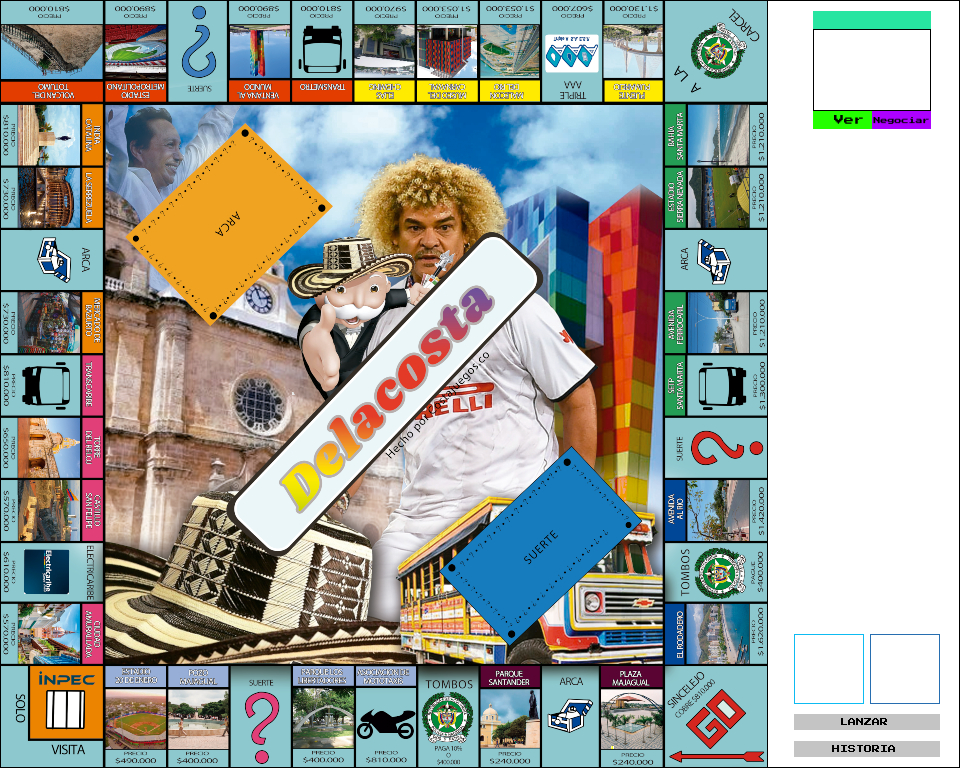
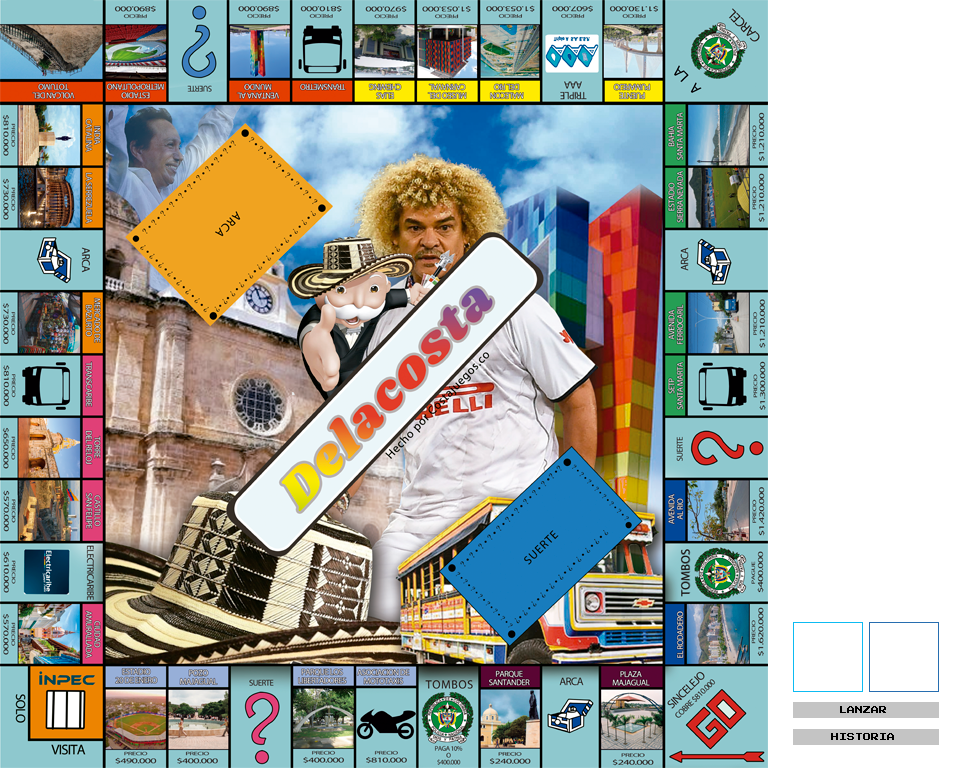
se mueve mas o menos con los dados, corregir limites

diff --git a/src/game/GameSketch.java b/src/game/GameSketch.java
@@ -7,14 +7,20 @@ import processing.core.PImage;
 import game.player.Player;
 import java.io.IOException;
 import game.player.PlayerList;
+import game.dices.dices;
 import game.Main;;
 
 public class GameSketch extends PApplet {
+	float timeexecute;
+	float timedices;
+	float capturetime;
 	PImage bg;
+	PImage[] dados = new PImage[6];
 	PImage piece1;
 	PImage piece2;
 	PImage piece3;
 	PImage piece4;
+
 	int distance = 61;
 	boolean visible = true;
 	// Todo esto es para leer datos atravez del teclado
@@ -41,36 +47,47 @@ public class GameSketch extends PApplet {
 
 	@Override
 	public void setup() {
-		
+		surface.setResizable(true);
 		surface.setSize(960, 768);
-		//console.activate();
+		// console.activate();
 		bg = loadImage("src/images/bg.png");
 		bg.resize(960, 768);
+
 		piece1 = loadImage(lista.head.piece.path);
 		piece2 = loadImage(lista.head.next.piece.path);
 		piece3 = loadImage(lista.head.next.next.piece.path);
 		piece4 = loadImage(lista.tail.piece.path);
-		
+		dices.upLoad();
+		for (int i = 0; i < dices.dices.length; i++) {
+			dados[i] = loadImage(dices.dices[i]);
+		}
+
 	}
 
 	@Override
 	public void draw() {
+		timeexecute = millis() / 1000;
+
+		// Displey de board
 		image(bg, 0, 0);
+		// Display the pieces
 		image(piece1, lista.head.piece.posx, lista.head.piece.posy);
 		image(piece2, lista.head.next.piece.posx, lista.head.next.piece.posy);
 		image(piece3, lista.head.next.next.piece.posx, lista.head.next.next.piece.posy);
 		image(piece4, lista.tail.piece.posx, lista.tail.piece.posy);
-		if(visible){
-			try {
+		// Display the dice
+		image(dados[lista.head.result.results[0] - 1], 793, 622);
+		image(dados[lista.head.result.results[1] - 1], 869, 622);
 
-				lista.head.moveAround();
-	
-			} catch (IOException e) {
-				// TODO Auto-generated catch block
-				e.printStackTrace();
-			}
-			visible = false;
-		}
+		// try {
+
+		// lista.head.moveAround();
+
+		// } catch (IOException e) {
+		// // TODO Auto-generated catch block
+		// e.printStackTrace();
+		// }
+		// visible = false;
 
 	}
 
@@ -87,6 +104,25 @@ public class GameSketch extends PApplet {
 			System.out.println(x);
 			console.reset();
 		}
+	}
+
+	@Override
+	public void mouseClicked() {
+
+		if (mouseX > 793 && mouseX < 939 && mouseY > 702 && mouseY < 718) {
+			// capturetime = true;
+
+			// if (timedices < 5) {
+			try {
+				lista.head.moveAround();
+			} catch (IOException e) {
+				// TODO Auto-generated catch block
+				e.printStackTrace();
+			}
+
+			// }
+		}
+
 	}
 
 	public void run() {

diff --git a/src/game/dices/dices.java b/src/game/dices/dices.java
@@ -1,25 +1,36 @@
 package game.dices;
 
 public class dices {
+    public static String[] dices = new String[6];
+    public static String[] pahtDices = new String[2];
+
+    public static void upLoad() {
+        for (int i = 0; i < 6; i++){
+            dices[i] = "src/images/dice" + (i + 1) + ".png";
+        }
+           
+    }
+
     public static int max_value = 6;
 
     public static dicesResult rollDices() {
-        int first =(int) Math.ceil(Math.random() * max_value);
-        int last =(int) Math.ceil(Math.random() * max_value);
-
-        int[] results = {first, last};
-        dicesResult result = new dicesResult(results, isPair(first, last));
+        int first = (int) Math.ceil(Math.random() * max_value);
+        pahtDices[0] = dices[first - 1];
+        int last = (int) Math.ceil(Math.random() * max_value);
+        pahtDices[1] = dices[last - 1];
+        int[] results = { first, last };
+        dicesResult result = new dicesResult(results, isPair(first, last), pahtDices);
         return result;
     }
 
-    public static boolean isPair(int first, int last){
+    public static boolean isPair(int first, int last) {
         return first == last ? true : false;
     }
 
     public static void main(String[] args) {
         for (int index = 0; index < 10; index++) {
-           dicesResult result = rollDices();
-           result.display();
+            dicesResult result = rollDices();
+            result.display();
         }
     }
 }

diff --git a/src/game/Main.java b/src/game/Main.java
@@ -34,22 +34,22 @@ public class Main {
 		// // Create Bank
 		Bank bank = new Bank(luck, ark, players);
 		GameSketch Sketch = new GameSketch(bank);
-		System.out.println("Escribe los nombres de los jugadores");
+		//System.out.println("Escribe los nombres de los jugadores");
 		// // Add the players to the players list and we sort the orden to play
-		String name1 = Leer.nextLine();
-		Player player1 = new Player(name1, board, bank,699,689,"piece1.png");
+		//String name1 = Leer.nextLine();
+		Player player1 = new Player("Elkin", board, bank,699,689,"piece1.png");
 		players.addPlayer(player1);
 
-		String name2 = Leer.nextLine();
-		Player player2 = new Player(name2, board, bank,722, 689,"piece2.png");
+		//String name2 = Leer.nextLine();
+		Player player2 = new Player("Luis", board, bank,722, 689,"piece2.png");
 		players.addPlayer(player2);
 
-		String name3 = Leer.nextLine();
-		Player player3 = new Player(name3, board, bank, 699, 714,"piece3.png");
+		//String name3 = Leer.nextLine();
+		Player player3 = new Player("Johan", board, bank, 699, 714,"piece3.png");
 		players.addPlayer(player3);
 		
-		String name4 = Leer.nextLine();
-		Player player4 = new Player(name4, board, bank,726, 714,"piece4.png");
+		//String name4 = Leer.nextLine();
+		Player player4 = new Player("Fabian", board, bank,726, 714,"piece4.png");
 		players.addPlayer(player4);
 
 		// // show the orden to play

diff --git a/src/game/dices/dicesResult.java b/src/game/dices/dicesResult.java
@@ -4,15 +4,20 @@ public class dicesResult {
     public int[] results;
     public boolean isPair = false;
     public int result = 0;
+    public String[] dices = new String[6];
+    public String[] pathDices = new String[2];
 
-    public dicesResult(int[] results, boolean isPair) {
+    public dicesResult(int[] results, boolean isPair, String[] pathDices) {
         this.results = results;
         this.isPair = isPair;
         this.result = results[0] + results[1];
+        this.pathDices[0] = pathDices[0];
+        this.pathDices[0] = pathDices[1];
+
     }
 
     public void display() {
-        System.out.println(results[0] + " " + results[1] + " " + isPair + " "+result);
+        System.out.println(results[0] + " " + results[1] + " " + isPair + " " + result);
     }
 
 }

diff --git a/src/game/player/Player.java b/src/game/player/Player.java
@@ -203,7 +203,7 @@ public class Player {
 					boleano = false;
 				}
 			}
-			if (this.piece.posy > this.destino) {
+			while(this.piece.posy > this.destino) {
 				this.piece.posy = this.piece.posy - 1;
 			}
 			System.out.println("Estoy moviendo Up");
@@ -223,7 +223,7 @@ public class Player {
 					boleano = false;
 				}
 			}
-			if (this.piece.posx < this.destino) {
+			while (this.piece.posx < this.destino) {
 				this.piece.posx = this.piece.posx + 1;
 			}
 			System.out.println("Estoy moviendo Right");
@@ -242,7 +242,7 @@ public class Player {
 					boleano = false;
 				}
 			}
-			if (this.piece.posy < this.destino) {
+			while(this.piece.posy < this.destino) {
 				this.piece.posy = this.piece.posy + 1;
 			
 			System.out.println("Estoy moviendo Down");
